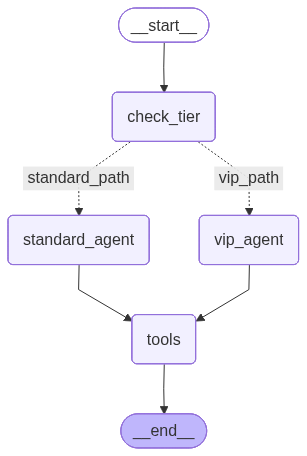
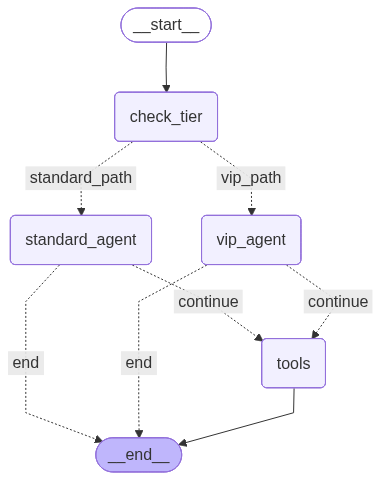
modified the Assignment-2 files

diff --git a/ManifoldBootCamp/Assignments/Assignment2-Support_agent_with_user_tier-based_routing.py b/ManifoldBootCamp/Assignments/Assignment2-Support_agent_with_user_tier-based_routing.py
@@ -65,19 +65,11 @@ def vip_agent_node(state: SupportState):
 
 
 # Nodes
-def agent_node(state: SupportState):
+def standard_agent_node(state: SupportState):
     ''' Node to handle conversation. and tool calls'''
     messages = state["messages"]
     response = llm_with_tools.invoke(messages)
     return {"messages": [response]}
-
-# Nodes billing_agent_node
-def billing_agent_node(state: SupportState):
-    ''' Node to handle billing/refund questions'''
-    messages = state["messages"]
-    response = llm_with_tools.invoke(messages)
-    return {"messages": [response]}
-
 
 def should_continue(state: SupportState) -> Literal["continue", "end"]:
     messages = state["messages"]
@@ -86,13 +78,18 @@ def should_continue(state: SupportState) -> Literal["continue", "end"]:
         return "end"
     return "continue"
 
+def route_back_to_agent(state: SupportState) -> str:
+    if state["user_tier"] == "vip":
+        return "vip_agent"
+    return "standard_agent"
+
+
 # Build graph
 workflow = StateGraph(SupportState)
 workflow.add_node("check_tier", check_user_tier_node)
 workflow.add_node("vip_agent", vip_agent_node)
-workflow.add_node("standard_agent", agent_node)
+workflow.add_node("standard_agent", standard_agent_node)
 workflow.add_node("tools", ToolNode(tools))
-workflow.add_node("billing_agent", billing_agent_node)
 
 # Set entry point
 workflow.set_entry_point("check_tier")
@@ -108,11 +105,36 @@ workflow.add_conditional_edges(
 )
 
 # Both agents can use tools
-workflow.add_edge("vip_agent", "tools")
-workflow.add_edge("standard_agent", "tools")
+#workflow.add_edge("vip_agent", "tools")
+#workflow.add_edge("standard_agent", "tools")
+
+# Agent → Tool OR End
+workflow.add_conditional_edges(
+    "standard_agent",
+    should_continue,
+    {
+        "continue": "tools",
+        "end": END
+    }
+)
+
+workflow.add_conditional_edges(
+    "vip_agent",
+    should_continue,
+    {
+        "continue": "tools",
+        "end": END
+    }
+)
 
 # Tools return to respective agents
-workflow.add_edge("tools", END)# Compile
+
+# Tool → Back to Correct Agent
+workflow.add_conditional_edges(
+    "tools",
+    route_back_to_agent
+)
+#workflow.add_edge("tools", END)# Compile
 
 app = workflow.compile()
 app.get_graph().draw_mermaid_png(output_file_path="support_agent_with_tools_anduser_tier.png")
